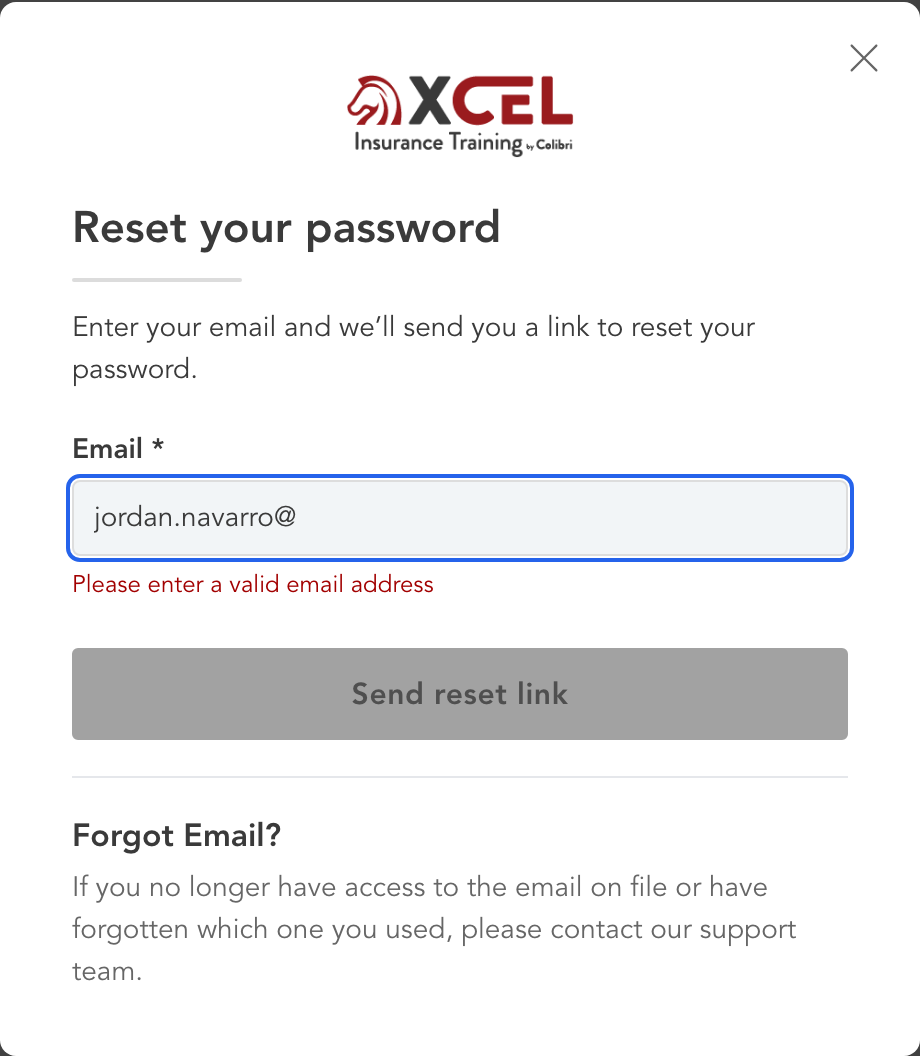
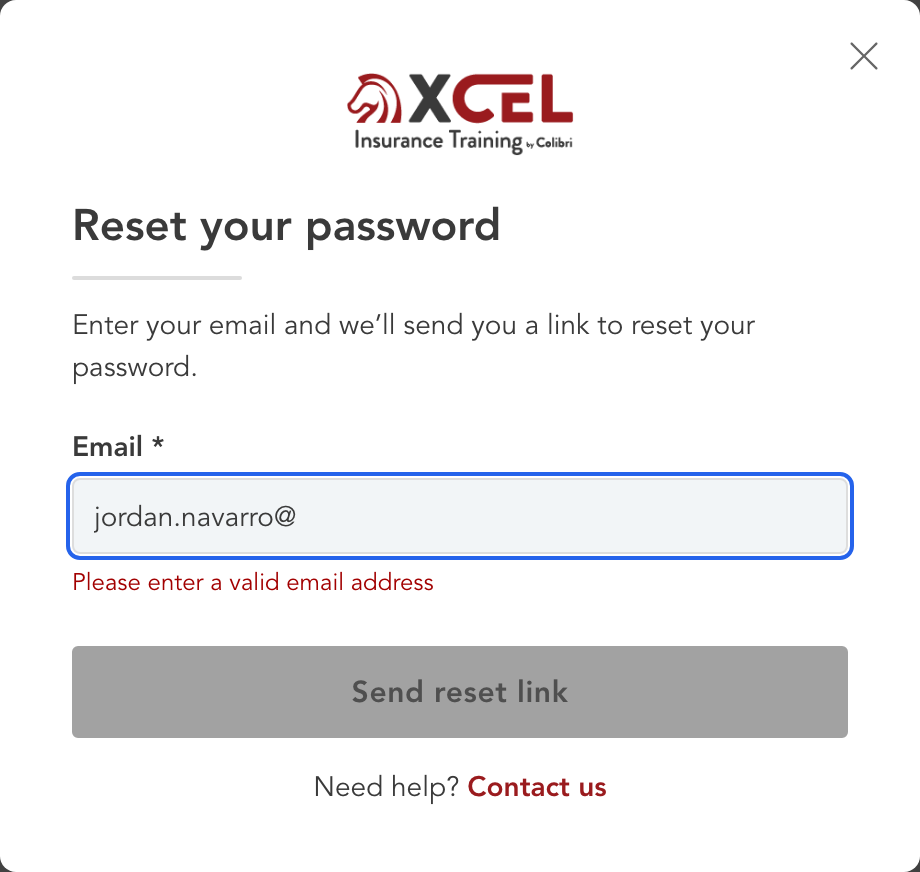
feat(atlas-keycloak): Need help? Contact us on Reset your password
In place of V3's "Forgot Email?" and its paragraph: one centred line, no
rule above it, "Contact us" in the XCEL red, opening
xcelsolutions.com/contact-us in a new tab. The /account-panels pictures are
re-captured (11/23); the capture moves the pointer off Resend link first,
so it is not pictured in its hover colour.

diff --git a/src/components/account/profile/ForgotPasswordModal.tsx b/src/components/account/profile/ForgotPasswordModal.tsx
@@ -143,14 +143,16 @@ export function ForgotPasswordModal({ onClose }: { onClose: () => void }) {
               <Button type="submit" variant="primary" disabled={!valid} aria-disabled={!valid} style={CTA}>
                 Send reset link
               </Button>
-              <hr aria-hidden style={FORGOT_EMAIL_RULE} />
-              <div style={FORGOT_EMAIL}>
-                <h3 style={FORGOT_EMAIL_TITLE}>Forgot Email?</h3>
-                <p style={FORGOT_EMAIL_TEXT}>
-                  If you no longer have access to the email on file or have forgotten which one you used, please
-                  contact our support team.
-                </p>
-              </div>
+              {/* Need help? Contact us — in place of V3's "Forgot Email?" and its
+                  paragraph (2026-11-23, Afsana). Centred, no rule above it;
+                  "Contact us" in the XCEL red, to the public contact page, in
+                  a new tab. */}
+              <p style={HELP}>
+                Need help?{' '}
+                <a href={CONTACT_US_URL} target="_blank" rel="noopener noreferrer" style={HELP_LINK}>
+                  Contact us
+                </a>
+              </p>
             </div>
           </form>
         )}
@@ -277,31 +279,22 @@ const NOTE: CSSProperties = {
   color: 'var(--color-text-secondary)',
 }
 
-const FORGOT_EMAIL_RULE: CSSProperties = {
+const CONTACT_US_URL = 'https://www.xcelsolutions.com/contact-us'
+
+const HELP: CSSProperties = {
   alignSelf: 'stretch',
-  height: 0,
-  margin: '4px 0',
-  border: 'none',
-  borderTop: '1px solid var(--color-e2e-form-outline)',
-}
-
-const FORGOT_EMAIL: CSSProperties = { display: 'flex', flexDirection: 'column', gap: 4 }
-
-const FORGOT_EMAIL_TITLE: CSSProperties = {
   margin: 0,
-  fontFamily: 'var(--font-e2e-avenir)',
-  fontWeight: 800,
-  fontSize: 16,
-  lineHeight: '22px',
-  color: 'var(--color-text-primary)',
-}
-
-const FORGOT_EMAIL_TEXT: CSSProperties = {
-  margin: 0,
+  textAlign: 'center',
   fontFamily: 'var(--font-e2e-avenir)',
   fontSize: 14,
   lineHeight: '21px',
-  color: 'var(--color-text-secondary)',
+  color: 'var(--color-text-primary)',
+}
+
+const HELP_LINK: CSSProperties = {
+  fontWeight: 800,
+  color: 'var(--color-xcel-brick)',
+  textDecoration: 'none',
 }
 
 const ACTIONS: CSSProperties = {

diff --git a/src/test/KeycloakChangePassword.test.tsx b/src/test/KeycloakChangePassword.test.tsx
@@ -122,6 +122,11 @@ describe('Keycloak change password', () => {
     expect(screen.getByRole('heading', { name: 'Reset your password' })).toBeTruthy()
     const send = screen.getByRole('button', { name: 'Send reset link' }) as HTMLButtonElement
     expect(send.disabled).toBe(true)
+    expect(screen.queryByText('Forgot Email?')).toBeNull()
+    const help = screen.getByRole('link', { name: 'Contact us' }) as HTMLAnchorElement
+    expect(help.href).toBe('https://www.xcelsolutions.com/contact-us')
+    expect(help.target).toBe('_blank')
+    expect(help.closest('p')?.textContent).toBe('Need help? Contact us')
     fireEvent.change(screen.getByLabelText(/^Email/), { target: { value: EMAIL } })
     expect(send.disabled).toBe(false)
     fireEvent.click(send)
